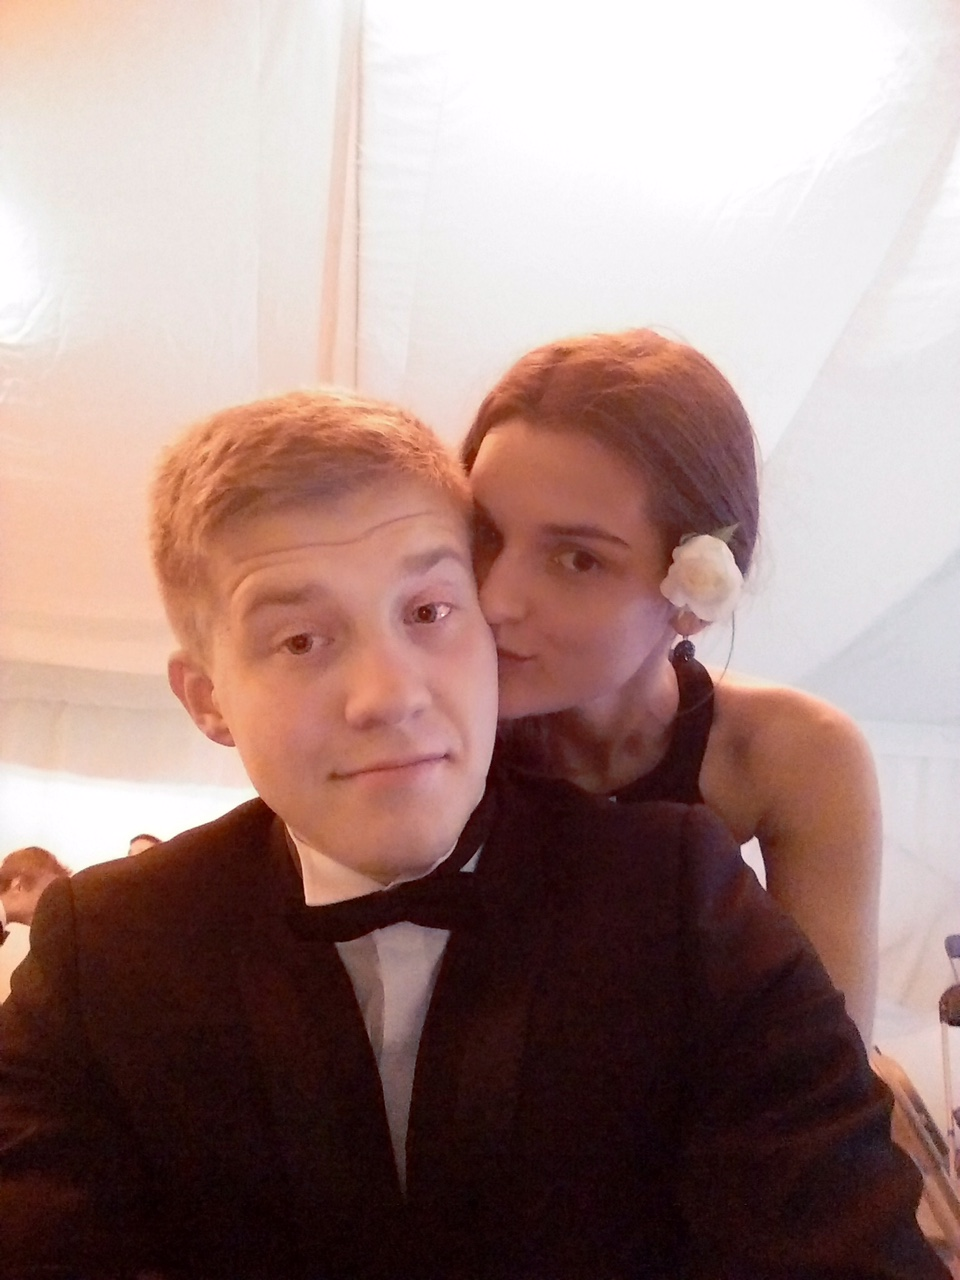
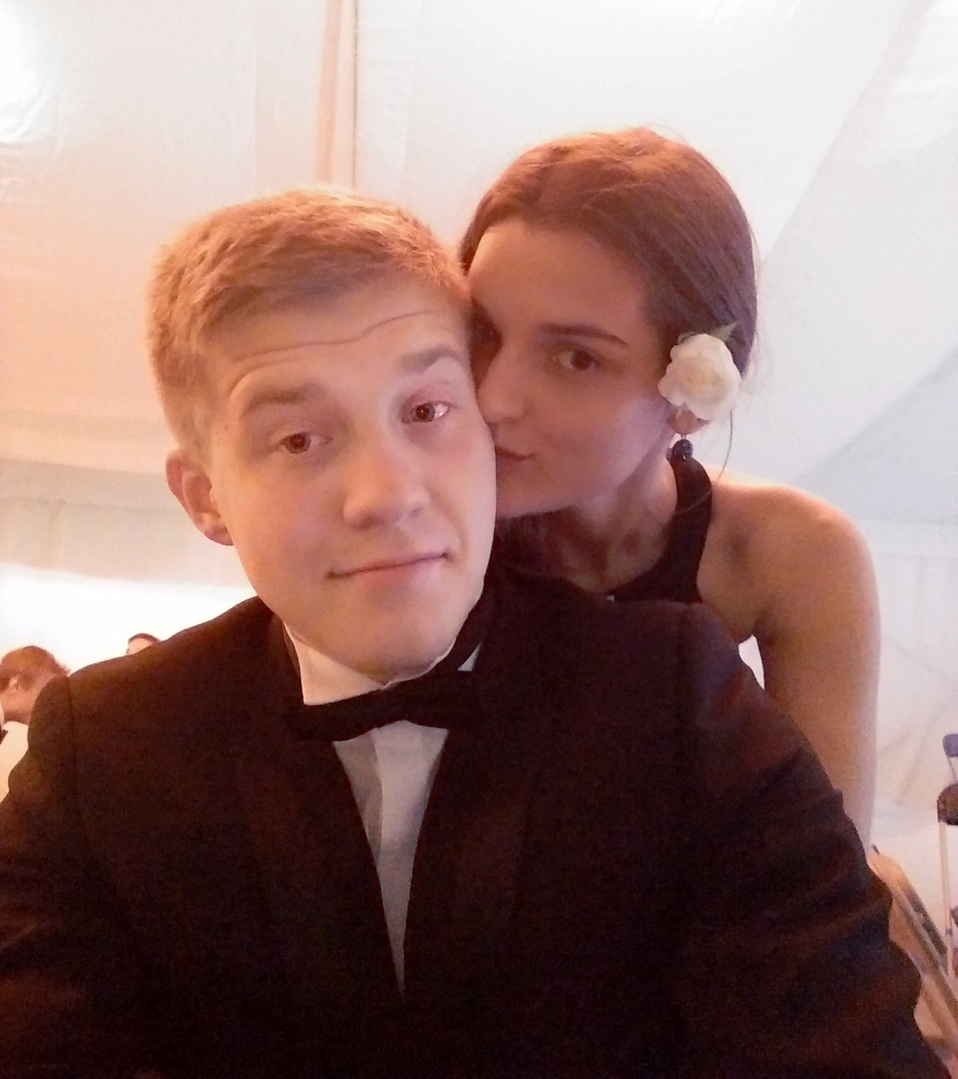
Cropped Rada pic. Removed Galleria scripts from index.html

diff --git a/index.html b/index.html
@@ -284,25 +284,6 @@
 
     <!-- Bootstrap Core JavaScript -->
     <script src="js/bootstrap.min.js"></script>
-	
-	<!-- Galleria Scripts -->
-	<script src="http://ajax.googleapis.com/ajax/libs/jquery/1/jquery.js"></script>
-	<script src="js/galleria/galleria-1.4.2.min.js"></script>
-	<script src="js/galleria/plugins/facebook/galleria.facebook.js"></script>
-	
-	<script>
-	Galleria.loadTheme('js/galleria/themes/classic/galleria.classic.min.js');
-	Galleria.run('#galleria', {
-		facebook: 'album:150037565020891',
-		width: 745,
-		height: 550,
-	 	lightbox: true,
-	 	facebookOptions: {
-	   	 	max: 30, // optional override for limit of 40 photos on an album
-	   	 	facebook_access_token: 'hoRaGstC9cqoKgFi0d03PTmFHW4'
-	 	}
-	});
-	</script>
 		
 
     <!-- Custom Theme JavaScript -->
